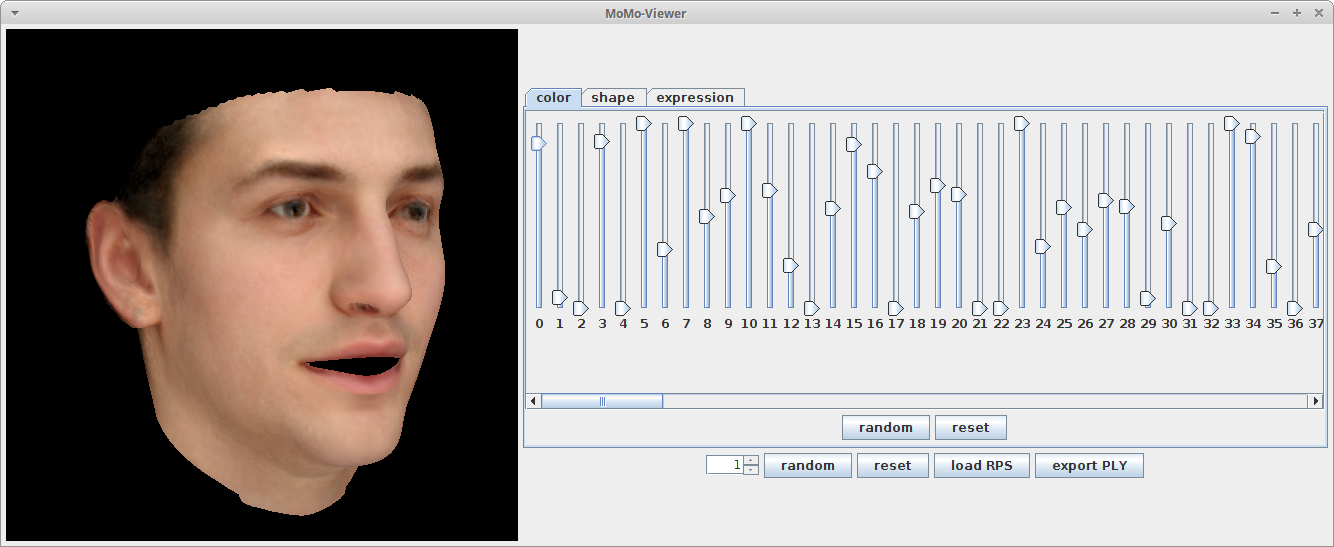
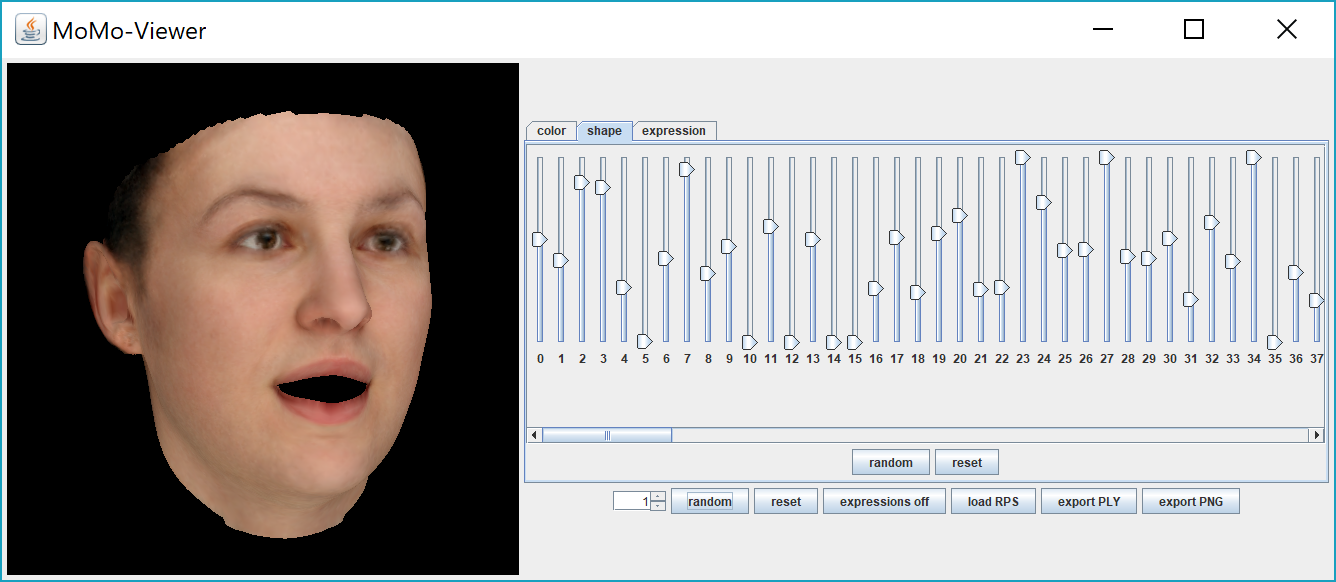
Add neutralModel and save image buttons (#8)
* Update ModelViewer.scala

* Add files via upload

* Update README.md

* cleaned startup code

* fixed all warnings from the ide

* Changed neutral button to a toggle expression button. The expression related controls only appears when they are used.

* Add files via upload

diff --git a/README.md b/README.md
@@ -17,8 +17,10 @@
 ## Usage:
 - upper random and reset button will update color/shape/expression parameters for active tab
 - lower random and reset button will update all model parameters
+- the button neutralModel will remove the expression part of the model
 - the button `load RPS` will load rendering parameters from a .rps file (currently only shape, color and expression)
-- the butten `write PLY` enables writing the current instance as a mesh in the ply file format (thanks to ImageSynthTue)
+- the button `write PLY` enables writing the current instance as a mesh in the ply file format (thanks to ImageSynthTue)
+- the button `write PNG` enables writing the current instance as an image in the png file format
 - sliders are ordered according to the principal components
 - the maximal parameter value corresponding to the sliders can be adjusted
 - press `Ctrl` to move pose with mouse (first click on face to activate the frame)
